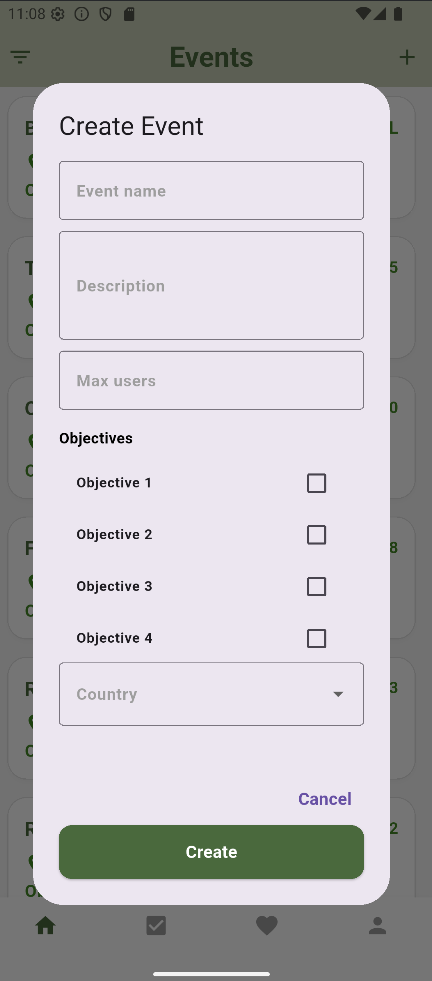
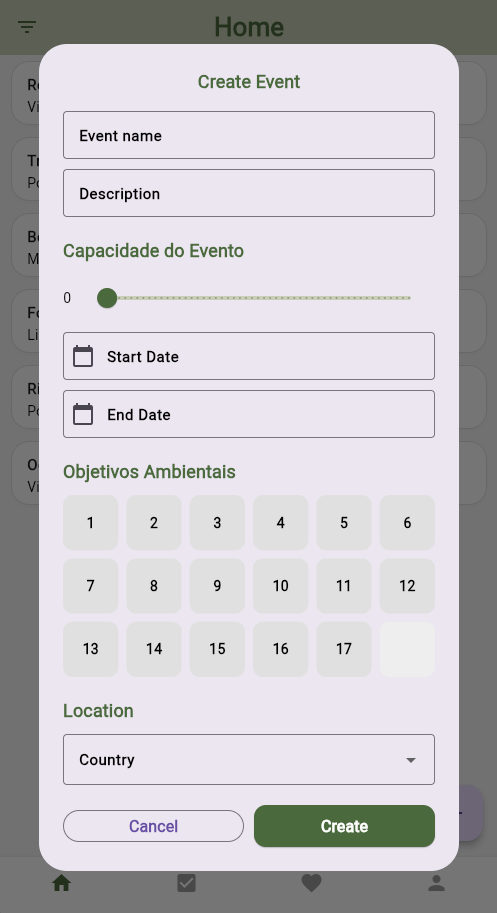
Functional prototype redone

diff --git a/README.md b/README.md
@@ -243,30 +243,30 @@ Example of _UML deployment diagram_ showing a _deployment view_ of the Eletronic
 
 The current version of Ripple Up is a working prototype that shows the main features of the application.
 
-The app already includes the most important features:
+The current prototype already supports the main user flows of the application:
 - View a list of events
-- Create new events
-- Filter events based on location, objectives, and number of participants
+- Create new events with detailed inputs (description, capacity, dates, objectives, location)
+- Filter events based on multiple criteria (location, objectives, participants)
 - View event details
 - Join events
-- Mark events as favorites and view them in a separate page
 
 The prototype also includes the following screens:
 - Home page – shows all available events
 - Create event screen – allows users to add a new event
 - Filter screen – lets users filter events
 - Event details popup/page – shows full information about an event
-- Favorites page – shows events marked as favorite
 
+Below are screenshots of the current implementation:
 <p align="center">
   <img src="assets/Functional_Prototype/feed_screen.png" alt="Feed Screen" width="250"/>
   <img src="assets/Functional_Prototype/create_event_screen.png" alt="Create Event Screen" width="250"/>
   <img src="assets/Functional_Prototype/filter_screen.png" alt="Filter Screen" width="250"/>
+  <img src="assets/Functional_Prototype/event_details_screen.png" alt="Event Details Screen" width="250"/>
 </p>
 
 Future things to improve:
-- Save data permanently (currently events are mockups)
-- Add user accounts and authentication
+- Persist data using a backend service (e.g., Firebase)
+- Mark events as favorites and manage them
 - Improve the design and user experience
 - View what events you joined
 - Notification reminders
